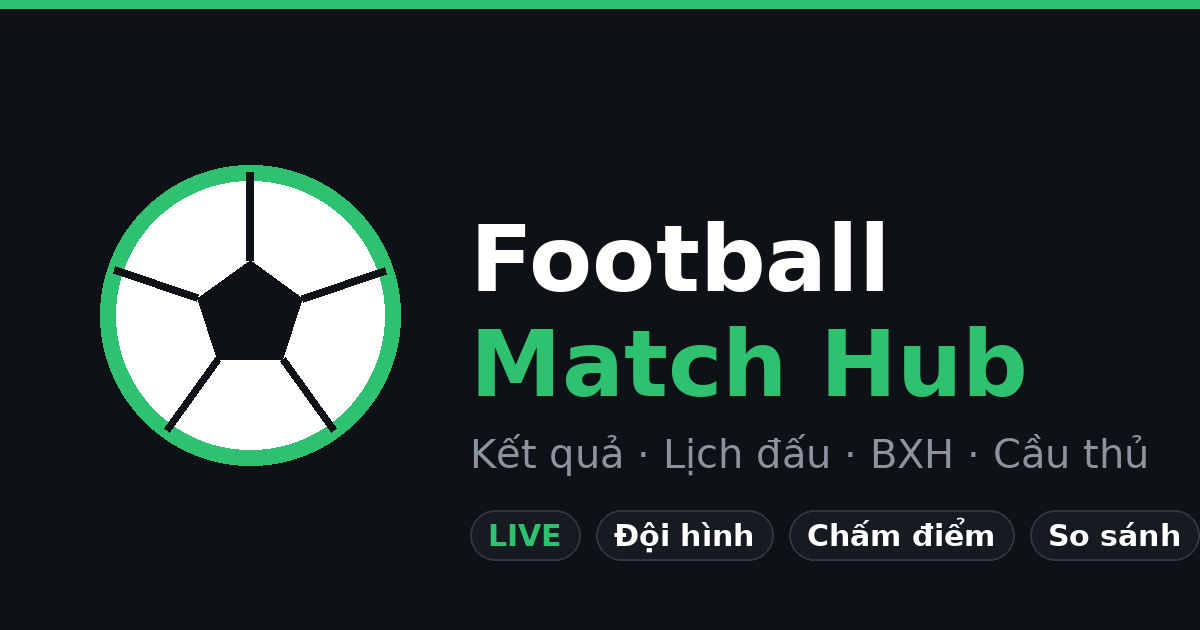
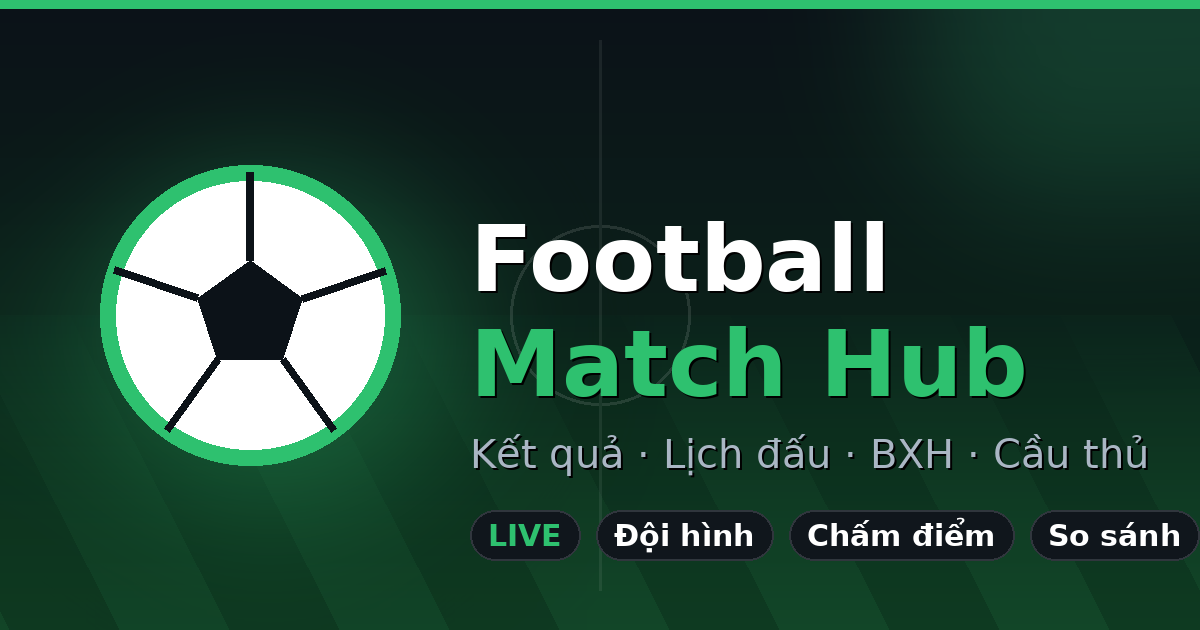
feat: ảnh OG nền sân bóng (thay nền đen) + cache-bust ?v=2

diff --git a/frontend/index.html b/frontend/index.html
@@ -16,7 +16,7 @@
     <meta property="og:title" content="Football Match Hub" />
     <meta property="og:description" content="Kết quả, lịch thi đấu, bảng xếp hạng, đội hình và thống kê cầu thủ bóng đá — cập nhật trực tiếp." />
     <meta property="og:url" content="https://football-match-hub-eight.vercel.app/" />
-    <meta property="og:image" content="https://football-match-hub-eight.vercel.app/og.png" />
+    <meta property="og:image" content="https://football-match-hub-eight.vercel.app/og.png?v=2" />
     <meta property="og:image:width" content="1200" />
     <meta property="og:image:height" content="630" />
     <meta property="og:locale" content="vi_VN" />
@@ -25,7 +25,7 @@
     <meta name="twitter:card" content="summary_large_image" />
     <meta name="twitter:title" content="Football Match Hub" />
     <meta name="twitter:description" content="Kết quả, lịch thi đấu, bảng xếp hạng, đội hình và thống kê cầu thủ bóng đá — cập nhật trực tiếp." />
-    <meta name="twitter:image" content="https://football-match-hub-eight.vercel.app/og.png" />
+    <meta name="twitter:image" content="https://football-match-hub-eight.vercel.app/og.png?v=2" />
   </head>
   <body>
     <div id="app"></div>
